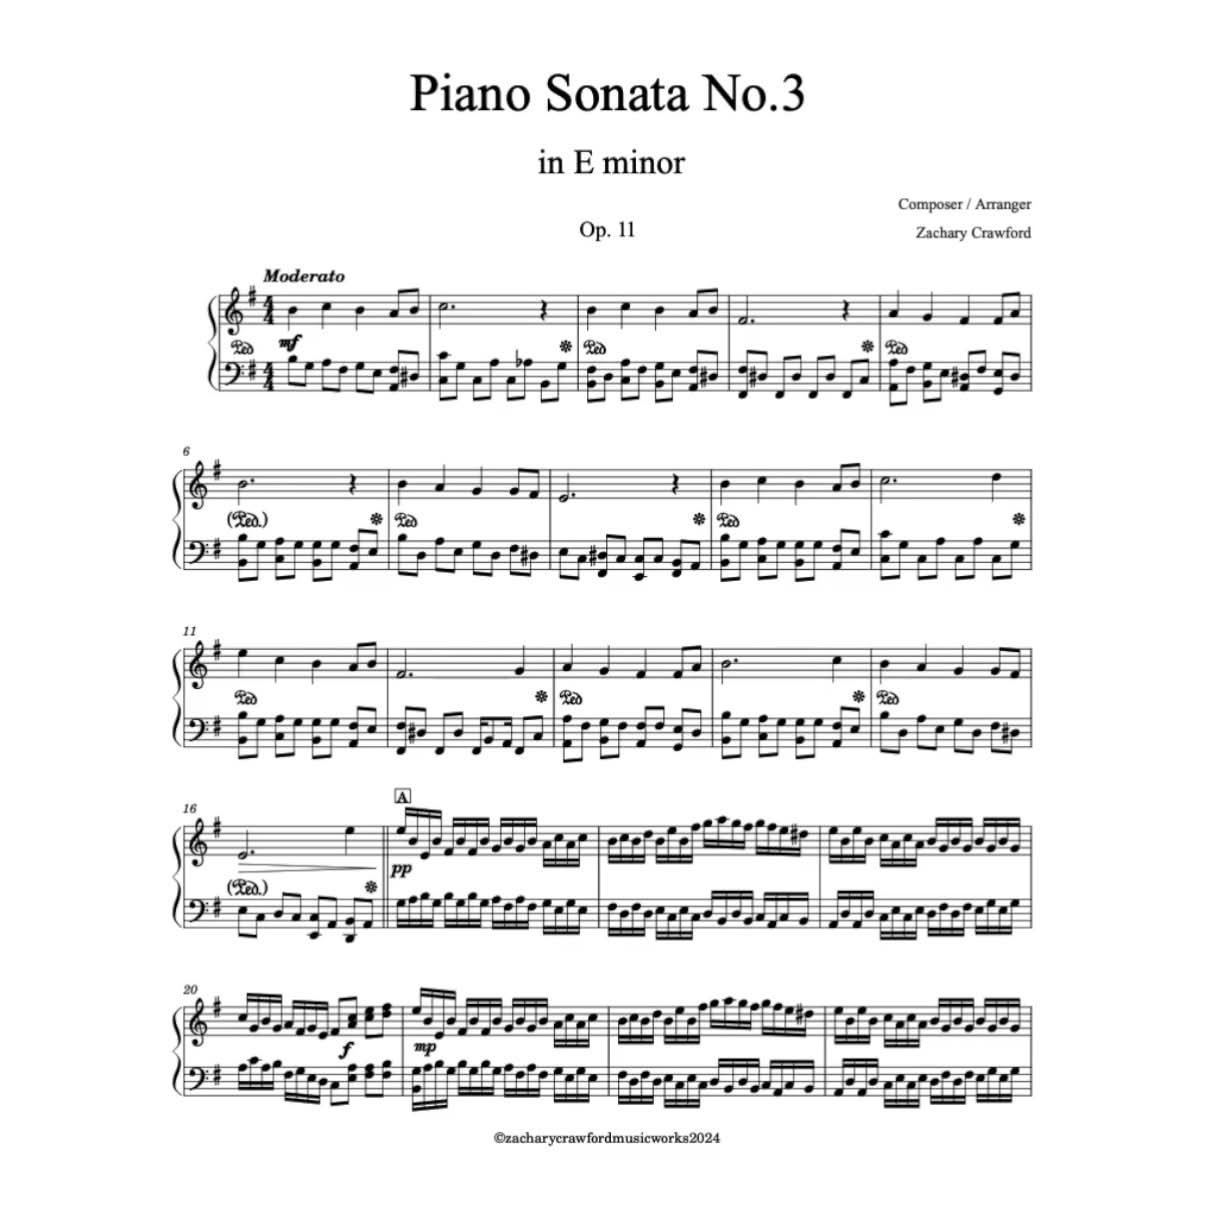
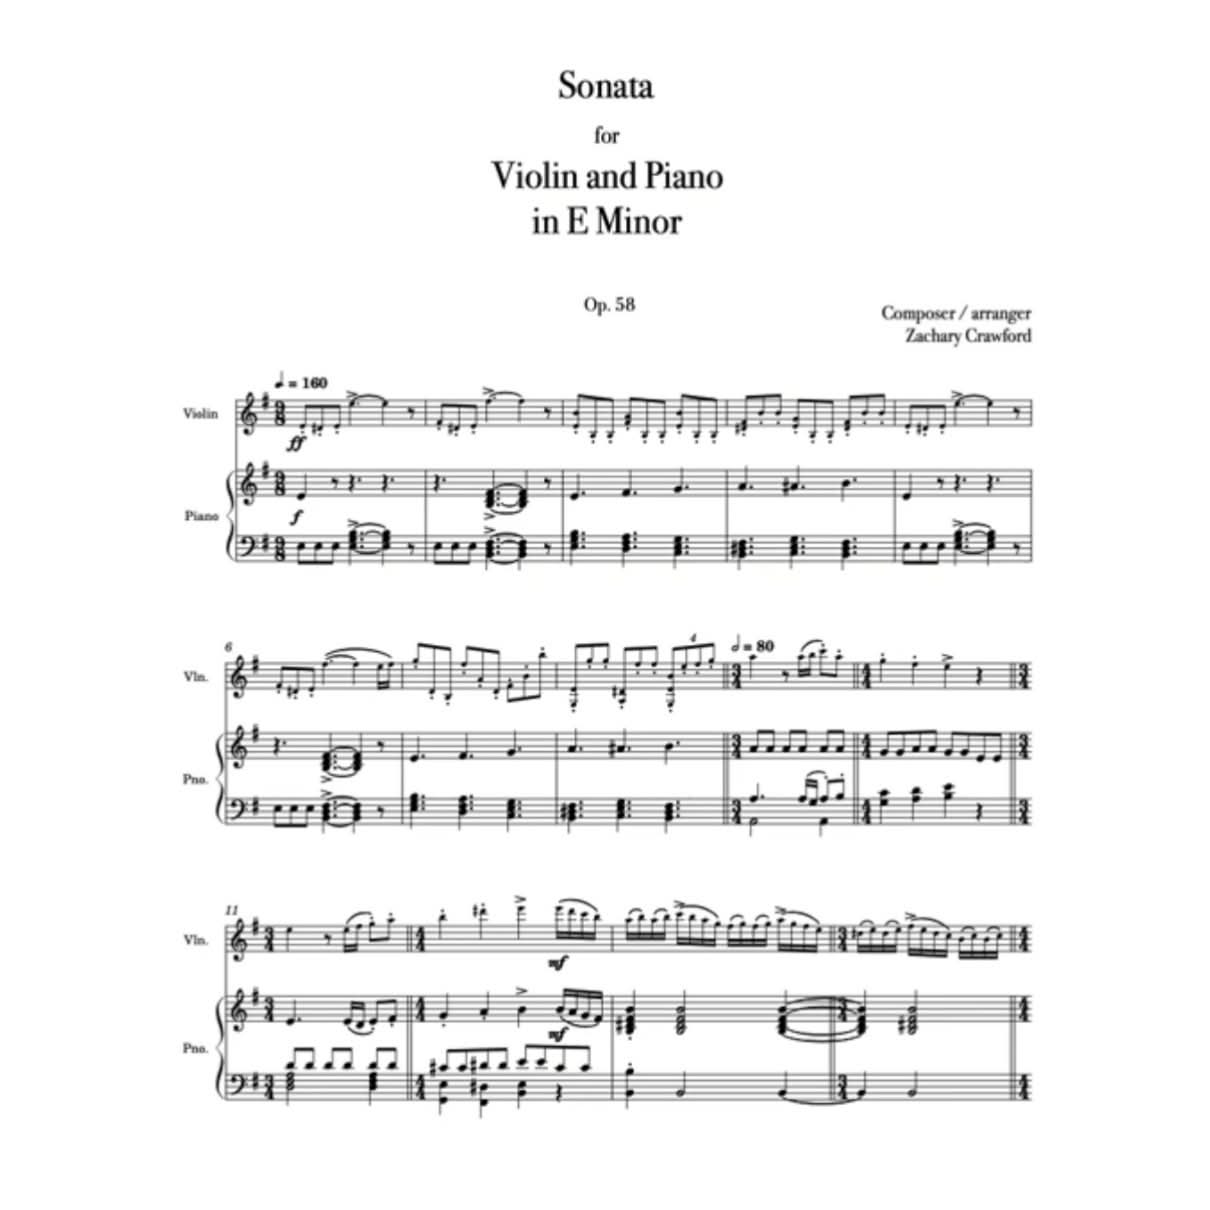
idek version 1

diff --git a/src/components/data/data.ts b/src/components/data/data.ts
@@ -109,7 +109,7 @@ export type CompositionEntry = Omit<Composition, "type">;
     duration: "14 secs",
     scoring: "placeholder",
     blurb: " ",
-    description: ["placeholder"],
+    description: [" "],
     image: null,
     audio: [{ src: "/audio/tidewater.mp3", label: "Placeholder recording" }],
     score: { src: "https://www.google.com", label: "Placeholder score (PDF)" },
@@ -1579,22 +1579,96 @@ export const symphonies: CompositionEntry[] = [
     landingComp: true,
     // purchaseUrl: "https://www.google.com",
   },
-  //FIX
 
   {
     slug: "symphony-19-Symphonie-Lugubre",
-    title: 'Crawford Symphony XIX in ______ "Symphonie Lugubre"',
+    title: 'Crawford Symphony XIX in Bb minor "Symphonie Lugubre"',
     subtitle: "For Full Orchestra",
-    year: "2025",
-    duration: "14 secs",
-    scoring: "placeholder",
+    year: "2026",
+    duration: "57:27",
+    scoring:
+      "Piccolo" +
+      "\n" +
+      "Flute I" +
+      "\n" +
+      "Flute II" +
+      "\n" +
+      "Clarinet I" +
+      "\n" +
+      "Clarinet II" +
+      "\n" +
+      "Oboe I" +
+      "\n" +
+      "Oboe II" +
+      "\n" +
+      "English Horn" +
+      "\n" +
+      "Bassoon I" +
+      "\n" +
+      "Bassoon II" +
+      "\n" +
+      "Bassoon III" +
+      "\n" +
+      "Contrabassoon" +
+      "\n" +
+      "Horn in F I" +
+      "\n" +
+      "Horn in F III" +
+      "\n" +
+      "Horn in F II" +
+      "\n" +
+      "Horn in F IV" +
+      "\n" +
+      "Trumpet in Bb I" +
+      "\n" +
+      "Trumpet in Bb II" +
+      "\n" +
+      "Trombone I" +
+      "\n" +
+      "Trombone II" +
+      "\n" +
+      "Bass Trombone" +
+      "\n" +
+      "Tuba" +
+      "\n" +
+      "Timpani" +
+      "\n" +
+      "Chimes" +
+      "\n" +
+      "Mallets (Vibraphone/Xylophone)" +
+      "\n" +
+      "Bass Drum" +
+      "\n" +
+      "Field Drum" +
+      "\n" +
+      "Crash Cymbal" +
+      "\n" +
+      "Soprano Vocal" +
+      "\n" +
+      "Alto Vocal" +
+      "\n" +
+      "Tenor Vocal" +
+      "\n" +
+      "Tenor Vocal Solo (Movement III)" +
+      "\n" +
+      "Bass Vocal" +
+      "\n" +
+      "Violin I" +
+      "\n" +
+      "Violin II" +
+      "\n" +
+      "Viola" +
+      "\n" +
+      "Violoncello" +
+      "\n" +
+      "Contrabass",
     blurb: " ",
-    description: ["placeholder"],
+    description: [" "],
     image: images.s19,
     youtube: {
-      //FIX
-      src: "https://www.youtube.com/watch?v=bM6pPmy84oE",
-      label: "Placeholder video",
+      src: "https://www.youtube.com/watch?v=NINJrMLl2EE",
+      label:
+        ' Crawford Symphony 19 in Bb Minor "Symphonie Lugubre" Full Score + Audio',
     },
     // purchaseUrl: "https://www.google.com",
   },
@@ -2220,14 +2294,78 @@ export const overtures: CompositionEntry[] = [
     },
     // purchaseUrl: "https://www.google.com",
   },
-  //FIX
   {
     slug: "overture-8-glory",
     title: 'Crawford Overture "Glory"',
     subtitle: "For Full Orchestra",
     year: "2025",
     duration: "14 secs",
-    scoring: "placeholder",
+    scoring:
+      "Flute I" +
+      "\n" +
+      "Flute II" +
+      "\n" +
+      "Oboe I" +
+      "\n" +
+      "Oboe II" +
+      "\n" +
+      "English Horn III" +
+      "\n" +
+      "Clarinet in Eb" +
+      "\n" +
+      "Clarinet in Bb I" +
+      "\n" +
+      "Clarinet in Bb II" +
+      "\n" +
+      "Clarinet in A" +
+      "\n" +
+      "Bassoon I" +
+      "\n" +
+      "Bassoon II" +
+      "\n" +
+      "Bassoon III" +
+      "\n" +
+      "Bassoon IV" +
+      "\n" +
+      "Horn in F I" +
+      "\n" +
+      "Horn in F III" +
+      "\n" +
+      "Horn in F II" +
+      "\n" +
+      "Horn in F IV" +
+      "\n" +
+      "Trumpet in Eb" +
+      "\n" +
+      "Trumpet in C" +
+      "\n" +
+      "Trumpet in Bb" +
+      "\n" +
+      "Trombone I" +
+      "\n" +
+      "Trombone II" +
+      "\n" +
+      "Bass Trombone" +
+      "\n" +
+      "Tuba" +
+      "\n" +
+      "Timpani I" +
+      "\n" +
+      "Timpani II" +
+      "\n" +
+      "Crash Cymbal" +
+      "\n" +
+      "Tam-Tam" +
+      "\n" +
+      "Violin I" +
+      "\n" +
+      "Violin II" +
+      "\n" +
+      "Viola" +
+      "\n" +
+      "Violoncello" +
+      "\n" +
+      "Contrabass",
     blurb: " ",
     description: [
       "This overture was one of Crawford's lost works that were brought back to life. He wrote this piece in 2023 but after completing it, he forgot all about it as he went back to composing. He found this work of his in November of 2025 and decided to revive it as he loved listening to it again. Not even he believed that this was one of his earlier works.",
@@ -2235,8 +2373,9 @@ export const overtures: CompositionEntry[] = [
     ],
     image: images.o8,
     youtube: {
-      src: "https://www.youtube.com/watch?v=bM6pPmy84oE",
-      label: "Placeholder video",
+      src: "https://www.youtube.com/watch?v=XWoGvFoU-Pk",
+      label:
+        'Overture "For Glory" Composed by Zachary Crawford Full Score + Audio',
     },
     // purchaseUrl: "https://www.google.com",
   },
@@ -2537,7 +2676,7 @@ export const chamberWorks: CompositionEntry[] = [
       "\n" +
       "Bass",
     blurb: " ",
-    description: ["placeholder"],
+    description: [" "],
     image: images.ch1,
     youtube: {
       src: "https://www.youtube.com/watch?v=lELjhYYBwdk&list=PLWmjwk0cLJGo",
@@ -2554,7 +2693,7 @@ export const chamberWorks: CompositionEntry[] = [
     duration: "9:21",
     scoring: "Oboe" + "\n" + "Piano",
     blurb: " ",
-    description: ["placeholder"],
+    description: [" "],
     image: images.ch2,
     youtube: {
       src: "https://www.youtube.com/watch?v=S7lJrWFMDTs&list=PLWmjwk0cLJGo&index=2",
@@ -2570,7 +2709,7 @@ export const chamberWorks: CompositionEntry[] = [
     duration: "13:49",
     scoring: "Violin" + "\n" + "Piano",
     blurb: " ",
-    description: ["placeholder"],
+    description: [" "],
     image: images.ch3,
     youtube: {
       src: "https://www.youtube.com/watch?v=HDmxqCTzFS4&list=PLWmjwk0cLJGo&index=3",
@@ -2596,7 +2735,7 @@ export const chamberWorks: CompositionEntry[] = [
       "\n" +
       "Bassoon",
     blurb: " ",
-    description: ["placeholder"],
+    description: [" "],
     image: images.ch4,
     youtube: {
       src: "https://www.youtube.com/watch?v=qxA2pdmSURY&list=PLWmjwk0cLJGo&index=4",
@@ -2612,7 +2751,7 @@ export const chamberWorks: CompositionEntry[] = [
     duration: "8:25",
     scoring: "Contrabass" + "\n" + "Piano",
     blurb: " ",
-    description: ["placeholder"],
+    description: [" "],
     image: images.ch5,
     youtube: {
       src: "https://www.youtube.com/watch?v=avyivImjfiw&list=PLWmjwk0cLJGo&index=5",
